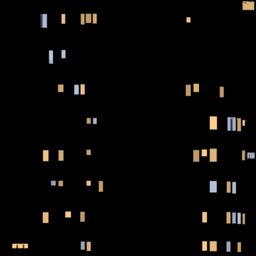
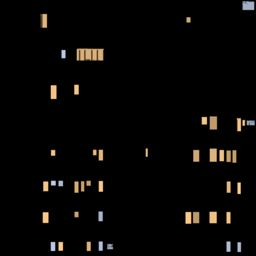
Pano facades: Pervomayskaya 2 (VTB/Stolichki), Kommunisticheskaya 58 ground floor (Gorzdrav), Sovetskaya 14A (Gorzdrav/Medeya), Parkovaya 2 (Teremok/Rigla), Pionerskaya 3; glowing shop signage at night; ground-floor-only photo mode

diff --git a/phx.js b/phx.js
@@ -1,1 +1,1 @@
-window.PHX={"ph_komm30": {"w": 22.4, "f": 8, "fh": 2.8, "src": "vd_18649_030_1_crop.jpg", "addr": "Коммунистическая 30", "osm": [564791074], "like": null, "uniq": 0}, "ph_perv10": {"w": 14.5, "f": 5, "fh": 2.9, "src": "vd_18766_010_1_crop.jpg", "addr": "Первомайская 10", "osm": [138298664], "like": null, "uniq": 0}, "ph_sov15": {"w": 18.6, "f": 6, "fh": 3.1, "src": "vd_18813_015_1_crop.jpg", "addr": "Советская 15", "osm": [138298805], "like": null, "uniq": 0}, "ph_kv1_11": {"w": 16.8, "f": 6, "fh": 2.8, "src": "vd_18862_011_1_crop.jpg", "addr": "1-й квартал 11", "osm": [57838109], "like": null, "uniq": 0}, "ph_kv2_11": {"w": 22.4, "f": 8, "fh": 2.8, "src": "vd_18883_011_1_crop.jpg", "addr": "2-й квартал 11", "osm": [55314195], "like": null, "uniq": 0}, "ph_dk_mir": {"w": 12.6, "f": 3, "fh": 4.2, "src": "Дворец_культуры_МИР__crop.jpg", "addr": "ДК «Мир»", "osm": [113608710], "like": null, "uniq": 1}};
+window.PHX={"ph_gz_komm58": {"w": 8.0, "f": 1, "fh": 4.0, "src": "pano_gorzdrav_kommunisticheskaya_58.jpg", "addr": "Коммунистическая 58 (Горздрав) — первый этаж", "osm": [229334868], "like": null, "uniq": 1, "ground": 1}, "ph_gz_sov14a": {"w": 9.6, "f": 3, "fh": 3.2, "src": "pano_gorzdrav_medeya_sovetskaya_14a.jpg", "addr": "Советская 14А (Горздрав, Медея)", "osm": [1414903617], "like": null, "uniq": 1, "ground": 0}, "ph_pion3": {"w": 10.2, "f": 3, "fh": 3.4, "src": "pano_pionerskaya_3.jpg", "addr": "Пионерская 3", "osm": [232959170], "like": null, "uniq": 0, "ground": 0}, "ph_teremok_park2": {"w": 4.6, "f": 1, "fh": 4.6, "src": "pano_teremok_rigla_parkovaya_s2.jpg", "addr": "Парковая 2 (Теремок, Ригла)", "osm": [203153319], "like": null, "uniq": 1, "ground": 0}, "ph_vtb_perv2": {"w": 18.0, "f": 6, "fh": 3.0, "src": "pano_vtb_stolichki_pervomayskaya_2.jpg", "addr": "Первомайская 2 (ВТБ, Столички)", "osm": [138298669], "like": null, "uniq": 1, "ground": 0}, "ph_komm30": {"w": 22.4, "f": 8, "fh": 2.8, "src": "vd_18649_030_1_crop.jpg", "addr": "Коммунистическая 30", "osm": [564791074], "like": null, "uniq": 0, "ground": 0}, "ph_perv10": {"w": 14.5, "f": 5, "fh": 2.9, "src": "vd_18766_010_1_crop.jpg", "addr": "Первомайская 10", "osm": [138298664], "like": null, "uniq": 0, "ground": 0}, "ph_sov15": {"w": 18.6, "f": 6, "fh": 3.1, "src": "vd_18813_015_1_crop.jpg", "addr": "Советская 15", "osm": [138298805], "like": null, "uniq": 0, "ground": 0}, "ph_kv1_11": {"w": 16.8, "f": 6, "fh": 2.8, "src": "vd_18862_011_1_crop.jpg", "addr": "1-й квартал 11", "osm": [57838109], "like": null, "uniq": 0, "ground": 0}, "ph_kv2_11": {"w": 22.4, "f": 8, "fh": 2.8, "src": "vd_18883_011_1_crop.jpg", "addr": "2-й квартал 11", "osm": [55314195], "like": null, "uniq": 0, "ground": 0}, "ph_dk_mir": {"w": 12.6, "f": 3, "fh": 4.2, "src": "Дворец_культуры_МИР__crop.jpg", "addr": "ДК «Мир»", "osm": [113608710], "like": null, "uniq": 1, "ground": 0}};

diff --git a/game.js b/game.js
@@ -135,7 +135,7 @@ const PHA={};Object.keys(PHX).forEach(n=>(PHX[n].osm||[]).forEach(id=>PHA[id]=n)
 window.__facadeNight=v=>PHE.forEach(m=>m.emissiveIntensity=v);
 function wallI(m,p,y0,y1,vs,us){const B=bf(m);for(let i=0;i<p.length;i++){const a=p[i],c=p[(i+1)%p.length],L=Math.hypot(c[0]-a[0],c[1]-a[1]);if(L<.05)continue;const nb=Math.max(1,Math.round(L/us));
  B.P.push(a[0],y0,a[1],c[0],y0,c[1],c[0],y1,c[1],a[0],y0,a[1],c[0],y1,c[1],a[0],y1,a[1]);const v0=0,v1=(y1-y0)/vs;B.U.push(0,v0,nb,v0,nb,v1,0,v0,nb,v1,0,v1);}}
-function series(b,p,i){const r0=series0(b,p,i);if(PHA[b.id])return{up:PHA[b.id],l:Math.max(1,b.l||(r0&&r0.l)||1),ent:r0?r0.ent:false,ph:1};if(r0&&!r0.house&&r0.up!='garage_row'&&PHANCH.length){let best=null,bd=500;const c=b.p[0];PHANCH.forEach(a=>{if(a.up!==r0.up||Math.abs(a.l-r0.l)>3)return;const d=Math.hypot(a.x-c[0],a.z-c[1]);if(d<bd){bd=d;best=a;}});if(best)return Object.assign({},r0,{up:best.n,gr:null,ph:1});}return r0;}
+function series(b,p,i){const r0=series0(b,p,i);if(PHA[b.id]&&PHX[PHA[b.id]].ground&&r0)return Object.assign({},r0,{gr:PHA[b.id],l:Math.max(2,r0.l)});if(PHA[b.id])return{up:PHA[b.id],l:Math.max(1,b.l||(r0&&r0.l)||1),ent:r0?r0.ent:false,ph:1};if(r0&&!r0.house&&r0.up!='garage_row'&&PHANCH.length){let best=null,bd=500;const c=b.p[0];PHANCH.forEach(a=>{if(a.up!==r0.up||Math.abs(a.l-r0.l)>3)return;const d=Math.hypot(a.x-c[0],a.z-c[1]);if(d<bd){bd=d;best=a;}});if(best)return Object.assign({},r0,{up:best.n,gr:null,ph:1});}return r0;}
 function series0(b,p,i){const n=b.n||'';if(b.k=='church'||b.k=='chapel')return null;for(const [re] of LM)if(re.test(n))return null;const k=b.k,A=Math.abs(area(p)),ob=obb(p);const Wd=ob?Math.min(ob.s1-ob.s0,ob.t1-ob.t0):10,Ln=ob?Math.max(ob.s1-ob.s0,ob.t1-ob.t0):10;
  let l=b.l;const red=/brick/.test(b.m)||/red|#[89a-f][0-9a-f][0-4]/i.test(b.c||'');
  if(k=='garages'||k=='garage')return{up:'garage_row',l:1,h:3};

diff --git a/proc_photos.py b/proc_photos.py
@@ -1,5 +1,6 @@
 # process Gemini photo-based facades -> tx/ph_*.jpg (+_n,_e), phx.json meta
 import numpy as np,glob,json,os,re,sys
+from scipy import ndimage as nd
 from PIL import Image,ImageFilter
 SRC='/workspace/lytkarino-photos/gemini';OUT='/workspace/lytkarino-game/tx'
 META=json.load(open('/workspace/lytkarino-game/phx_meta.json'))  # name -> {floors, fh}
@@ -16,8 +17,10 @@ def seam(a,ax,w=64):
 out={}
 for f in sorted(glob.glob(SRC+'/*')):
   base=os.path.basename(f);m=META.get(base)
-  if not m:print('no meta',base);continue
-  name='ph_'+m['key'];im=Image.open(f).convert('RGB').resize((1024,1024),Image.LANCZOS)
+  if not m or m.get('skip'):print('skip',base);continue
+  name='ph_'+m['key'];im=Image.open(f).convert('RGB');cr=m.get('crop')
+  if cr:im=im.crop((0,int(im.height*cr[0]),im.width,int(im.height*cr[1])))
+  im=im.resize((1024,1024),Image.LANCZOS)
   a=np.asarray(im).astype(float);a=seam(seam(a,1,72),0,24)
   Image.fromarray(a.clip(0,255).astype('uint8')).resize((512,512),Image.LANCZOS).save(f'{OUT}/{name}.jpg',quality=85)
   L=a.mean(2);gx=np.gradient(L,axis=1);gy=np.gradient(L,axis=0);s=2/255*4
@@ -27,9 +30,12 @@ for f in sorted(glob.glob(SRC+'/*')):
   rough=255-np.clip((L-L.mean())*.8+180,0,255);Image.fromarray(rough.astype('uint8')).resize((256,256)).save(f'{OUT}/{name}_r.jpg',quality=80)
   F=m['floors'];import sys;sys.path.insert(0,'/workspace/lytkarino-game/tools');from win import emissive
   e,nw=emissive(a,m['floors'],seed=hash(name)%1000);print(name,'windows',nw)
+  if m.get('signs'):
+    sat=a.max(2)-a.min(2);Lm=a.mean(2);hsv=np.asarray(Image.fromarray(a.clip(0,255).astype('uint8')).convert('HSV')).astype(float);S_=hsv[...,1];V_=hsv[...,2];core=(S_>170)&(V_>120);core=nd.binary_opening(core,iterations=2);reg=nd.binary_dilation(core,iterations=6)&(nd.uniform_filter(core.astype(float),31)>.25);sg=core|(reg&(V_>200))
+    sg=nd.binary_opening(sg,iterations=1);e=np.maximum(e,(a*sg[...,None]*1.1).clip(0,255)).astype('uint8')
   Image.fromarray(e).resize((256,256)).save(f'{OUT}/{name}_e.jpg',quality=80)
   night=(a*.18+ e*.9).clip(0,255);Image.fromarray(night.astype('uint8')).resize((512,512)).save(f'/workspace/lytkarino-photos/processed/{name}_night.jpg',quality=85)
-  out[name]={'w':round(F*m['fh'],2),'f':F,'fh':m['fh'],'src':base,'addr':m.get('addr',''),'osm':m.get('osm',[]),'like':m.get('like'),'uniq':m.get('uniq',0)}
+  cr=m.get('crop') or [0,1];out[name]={'w':round(F*m['fh']/(cr[1]-cr[0]),2),'f':F,'fh':m['fh'],'src':base,'addr':m.get('addr',''),'osm':m.get('osm',[]),'like':m.get('like'),'uniq':m.get('uniq',0),'ground':m.get('ground',0)}
 json.dump(out,open('/workspace/lytkarino-game/phx.json','w'),ensure_ascii=False,indent=1)
 open('/workspace/lytkarino-game/phx.js','w').write('window.PHX='+json.dumps(out,ensure_ascii=False)+';')
 print(json.dumps(out,ensure_ascii=False))
